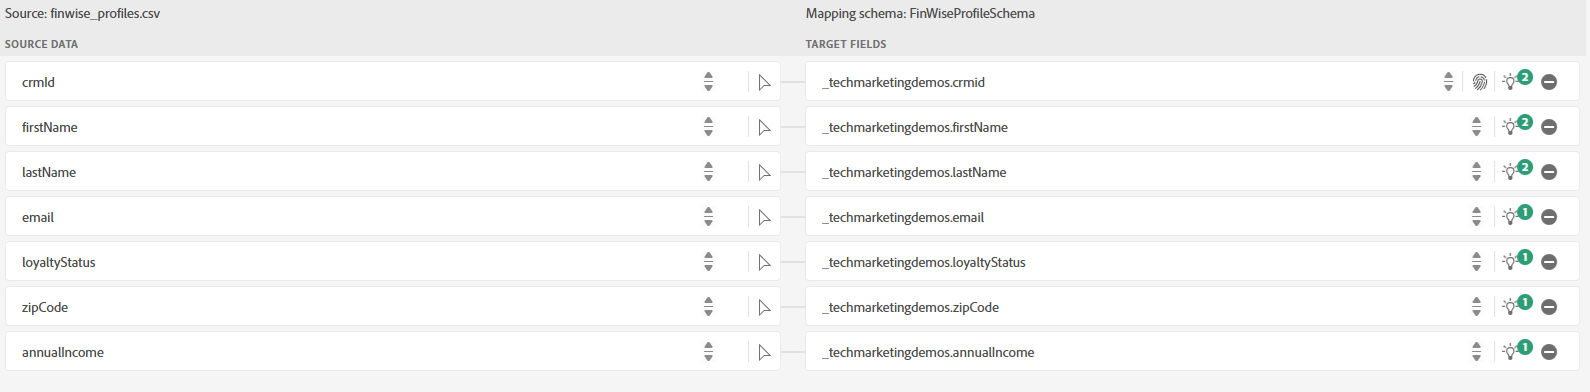
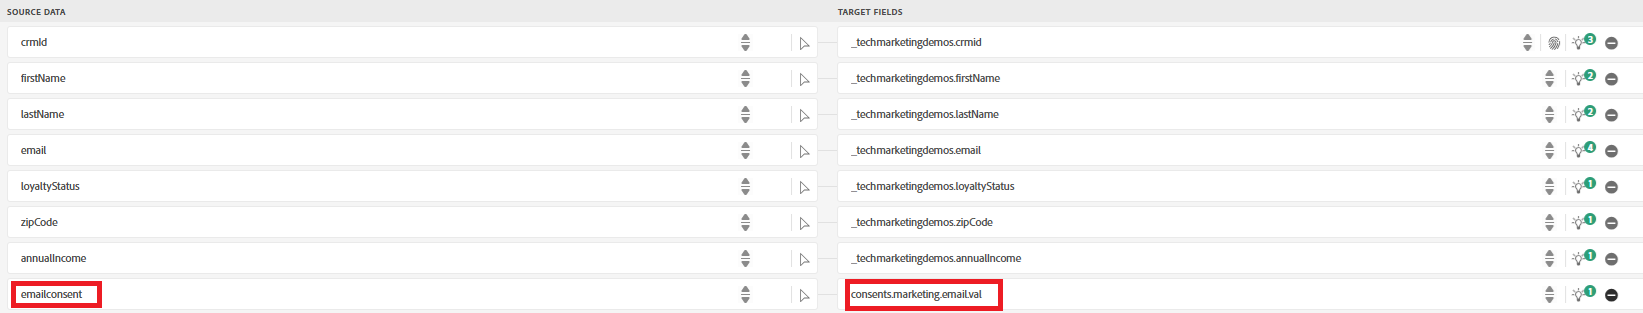
updated to include consent field group

diff --git a/help/tutorial-identity-stitching/import-sample-data.md b/help/tutorial-identity-stitching/import-sample-data.md
@@ -23,34 +23,37 @@ To begin the identity stitching, import sample CRM profile data into a dataset t
 ## Create a profile enabled schema
 
 Create an individual profile schema called **_FinWiseProfileSchema_**. Include fields, such as annualIncome, email,firstName,lastName and loyaltyStatus.
-Add an identity field **_crmid_** under the SystemIdentifier object. Mark the crmid field as identity and primary
+Add an identity field **_crmid_** as shown. Mark the crmid field as identity and primary.
+Add the _**Consents and Preferences Details**_ field group to the schema. [Consents and Preferences](https://experienceleague.adobe.com/en/docs/experience-platform/xdm/field-groups/profile/consents) is a standard field group for the XDM Individual Profile class that captures consent and preference information for an individual customer.The preferences stored here determine channel level communication preferences.
 
 
 ![profile-schema](assets/finwise-profile-schema.png)
 
 ## Prepare sample data
 
-| crmId  | firstName | lastName | email                   | loyaltyStatus | zipCode | annualIncome |
-|--------|-----------|----------|-------------------------|---------------|---------|--------------|
-| FIN001 | Alice     | Wong     | alice.wong@example.com  | Gold          | 92128   | 120000       |
-| FIN002 | Bob       | Smith    | bob.smith@example.com   | Silver        | 92126   | 85000        |
-| FIN003 | Charlie   | Kim      | charlie.kim@example.com | Platinum      | 60614   | 175000       |
-| FIN004 | Diana     | Lee      | diana.lee@example.com   | Gold          | 30303   | 98000        |
-| FIN005 | Ethan     | Brown    | ethan.brown@example.com | Bronze        | 75201   | 60000        |
+Update the dummy email addresses to real ones. These will be used later when sending messages with Adobe Journey Optimizer. Set emailConsent to y to enable email delivery for the profiles.
+
+|   | crmId  | firstName | lastName | email                   | loyaltyStatus | zipCode | annualIncome | emailConsent |
+|---|--------|-----------|----------|-------------------------|---------------|---------|--------------|--------------|
+|   | FIN001 | Alice     | Wong     | alice.wong@example.com  | Gold          | 92128   | 120000       | y            |
+|   | FIN002 | Bob       | Smith    | bob.smith@example.com   | Silver        | 92126   | 85000        | y            |
+|   | FIN003 | Charlie   | Kim      | charlie.kim@example.com | Platinum      | 60614   | 175000       | y            |
+|   | FIN004 | Diana     | Lee      | diana.lee@example.com   | Gold          | 30303   | 98000        | y            |
+|   | FIN005 | Ethan     | Brown    | ethan.brown@example.com | Bronze        | 75201   | 60000        | y            |
 
 ## Ingest the CSV file
 
-* Create a dataset called **_FinWiseCustomerDataSetWithAnnualIncome_** based on the **_FinWiseProfileSchema_** created in the earlier step
+*   Create a dataset called **_FinWiseCustomerDataSetWithAnnualIncome_** based on the **_FinWiseProfileSchema_** created in the earlier step
 
-* Navigate to Connections -> Sources -> Local system
-* Select the **_Add Data_** under the Local file upload. Make sure to select the _**FinWiseCustomerDataSetWithAnnualIncome**_ as the target dataset.
+*   Navigate to Connections -> Sources -> Local system
+*   Select the **_Add Data_** under the Local file upload. Make sure to select the _**FinWiseCustomerDataSetWithAnnualIncome**_ as the target dataset.
 ![ingest-csv](assets/ingest-csv-into-dataset.png)
-* Navigate to the next screen. Upload the [csv file](assets/finwise_profiles.csv) and verify the mappings 
+*   Navigate to the next screen. Upload the [csv file](assets/finwise_profiles.csv) and verify the mappings 
 ![mappings](assets/mappings.png)
 
-* Click Finish to start the data ingestion process
+*   Click Finish to start the data ingestion process
 
 ## Verify profile
 
-* Navigate to Customer ->Profiles and search for FinWise CRM ID equal to FIN001 or any other valid value
+*   Navigate to Customer ->Profiles and search for FinWise CRM ID equal to FIN001 or any other valid value
 ![verify-profile](assets/verify-profiles.png)
